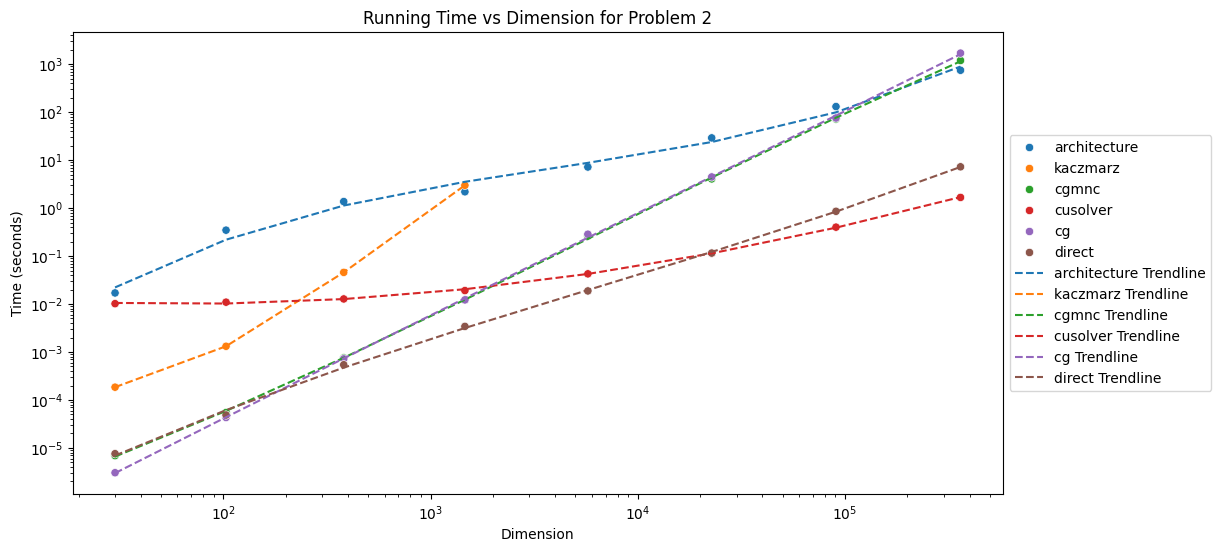
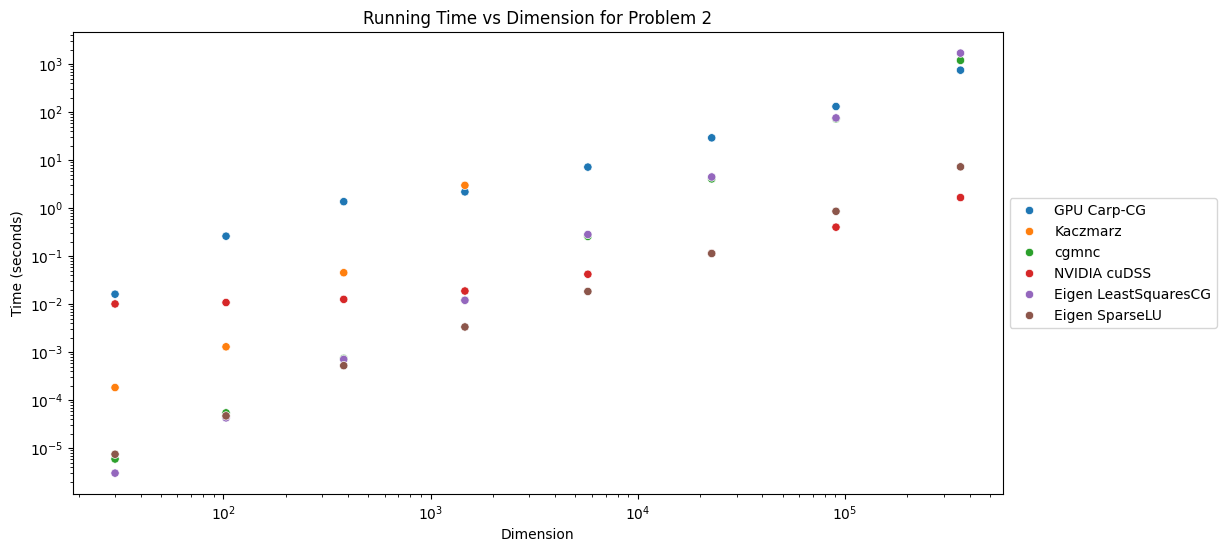
change to mean

diff --git a/benchmarking_data/compare_running_times/running_times.py b/benchmarking_data/compare_running_times/running_times.py
@@ -30,9 +30,21 @@ for path in file_paths:
         df_filtered = df[df['Problem'] == problem]
 
         # Group by dimension and calculate mean and variance of time
-        df_grouped = df_filtered.groupby('Dim').agg({'Time': ['mean', 'var']}).reset_index()
+        df_grouped = df_filtered.groupby('Dim').agg({'Time': ['median', 'var']}).reset_index()
         df_grouped.columns = ['Dim', 'Time_mean', 'Time_var']
         df_grouped['Method'] = method
+        
+        #some renaming:
+        if (method == "architecture"):
+            df_grouped['Method'] = "GPU Carp-CG"
+        elif (method == "cg"):
+            df_grouped['Method'] = "Eigen LeastSquaresCG"
+        elif (method == "direct"):
+            df_grouped['Method'] = "Eigen SparseLU"
+        elif (method == "kaczmarz"):
+            df_grouped["Method"] = "Kaczmarz"
+        elif (method == "cusolver"):
+            df_grouped["Method"] = "NVIDIA cuDSS"
 
         # Store the data in the dictionary
         if problem not in problem_data:
@@ -43,14 +55,15 @@ for path in file_paths:
 # Plotting
 for problem, data in problem_data.items():
     plt.figure(figsize=(12, 6))
+
     sns.scatterplot(x='Dim', y='Time_mean', hue='Method', data=data)
 
     # Add trendlines
     for method in data['Method'].unique():
         method_data = data[data['Method'] == method]
-        z = np.polyfit(np.log(method_data['Dim']), np.log(method_data['Time_mean']), 3)
+        '''z = np.polyfit(np.log(method_data['Dim']), np.log(method_data['Time_mean']), 1)
         p = np.poly1d(z)
-        plt.plot(method_data['Dim'], np.exp(p(np.log(method_data['Dim']))), linestyle='--', label=f'{method} Trendline')
+        plt.plot(method_data['Dim'], np.exp(p(np.log(method_data['Dim']))), linestyle='--', label=f'{method} Trendline')'''
 
     # Customize the plot
     plt.xscale('log')
